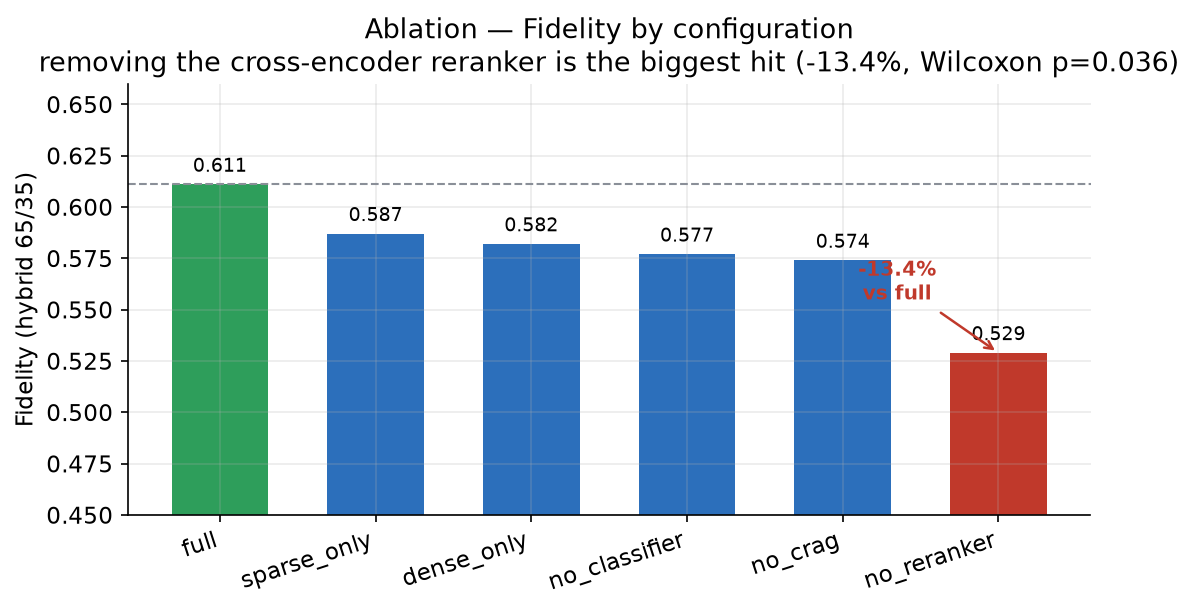
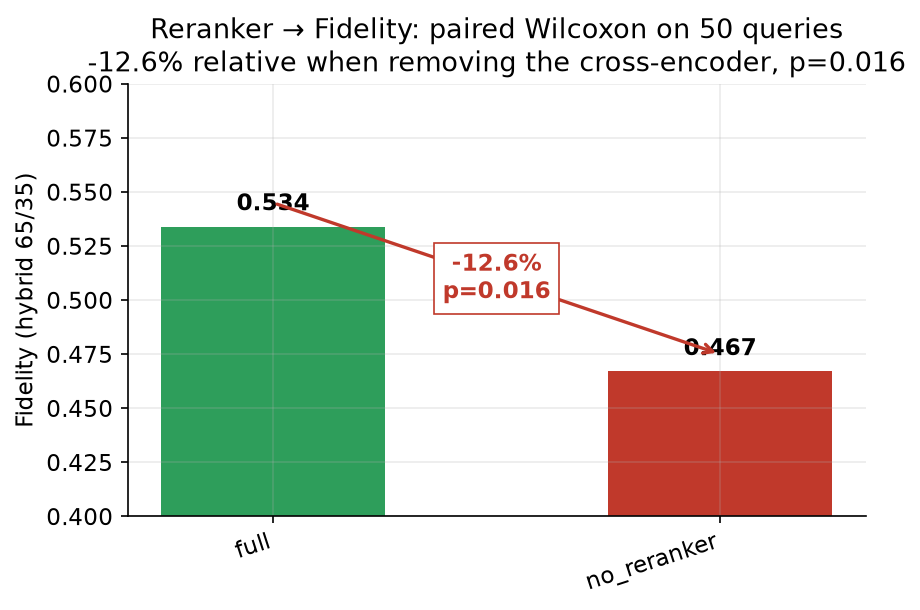
docs: update ablation figure with fresh N5 numbers (-12.6%, p=0.016)

diff --git a/docs/make_figures.py b/docs/make_figures.py
@@ -30,24 +30,24 @@ plt.rcParams.update({
 
 
 def fig_ablation_fidelity():
-    # Table 4 (primary ablation, DeepSeek) Fidelity per configuration
-    cfgs = ["full", "sparse_only", "dense_only", "no_classifier", "no_crag", "no_reranker"]
-    fid = [0.611, 0.587, 0.582, 0.577, 0.574, 0.529]
-    colors = [GREEN] + [BLUE] * 4 + [RED]
-    fig, ax = plt.subplots(figsize=(7.5, 4.2))
-    bars = ax.bar(cfgs, fid, color=colors, width=0.62)
-    ax.axhline(0.611, ls="--", lw=1, color=GRAY)
-    ax.set_ylim(0.45, 0.66)
+    # From results/n5_fidelity_wilcoxon.json (fixed CRAG evaluator, DeepSeek)
+    cfgs = ["full", "no_reranker"]
+    fid = [0.534, 0.467]
+    colors = [GREEN, RED]
+    fig, ax = plt.subplots(figsize=(6.0, 4.2))
+    bars = ax.bar(cfgs, fid, color=colors, width=0.5)
+    ax.set_ylim(0.40, 0.60)
     ax.set_ylabel("Fidelity (hybrid 65/35)")
-    ax.set_title("Ablation — Fidelity by configuration\n"
-                 "removing the cross-encoder reranker is the biggest hit (-13.4%, "
-                 "Wilcoxon p=0.036)")
+    ax.set_title("Reranker → Fidelity: paired Wilcoxon on 50 queries\n"
+                 "-12.6% relative when removing the cross-encoder, p=0.016")
     for b, v in zip(bars, fid):
-        ax.text(b.get_x() + b.get_width() / 2, v + 0.004, f"{v:.3f}",
-                ha="center", va="bottom", fontsize=9)
-    ax.annotate("-13.4%\nvs full", xy=(5, 0.529), xytext=(4.35, 0.555),
-                color=RED, fontsize=9.5, fontweight="bold", ha="center",
-                arrowprops=dict(arrowstyle="->", color=RED, lw=1.2))
+        ax.text(b.get_x() + b.get_width() / 2, v + 0.005, f"{v:.3f}",
+                ha="center", va="bottom", fontsize=11, fontweight="bold")
+    ax.annotate("", xy=(1, 0.475), xytext=(0, 0.545),
+                arrowprops=dict(arrowstyle="->", color=RED, lw=1.6))
+    ax.text(0.5, 0.51, "-12.6%\np=0.016", ha="center", va="center",
+            color=RED, fontsize=11, fontweight="bold",
+            bbox=dict(facecolor="white", edgecolor=RED, lw=0.8))
     plt.xticks(rotation=18, ha="right")
     plt.tight_layout()
     fig.savefig(IMG / "ablation_fidelity.png", bbox_inches="tight")